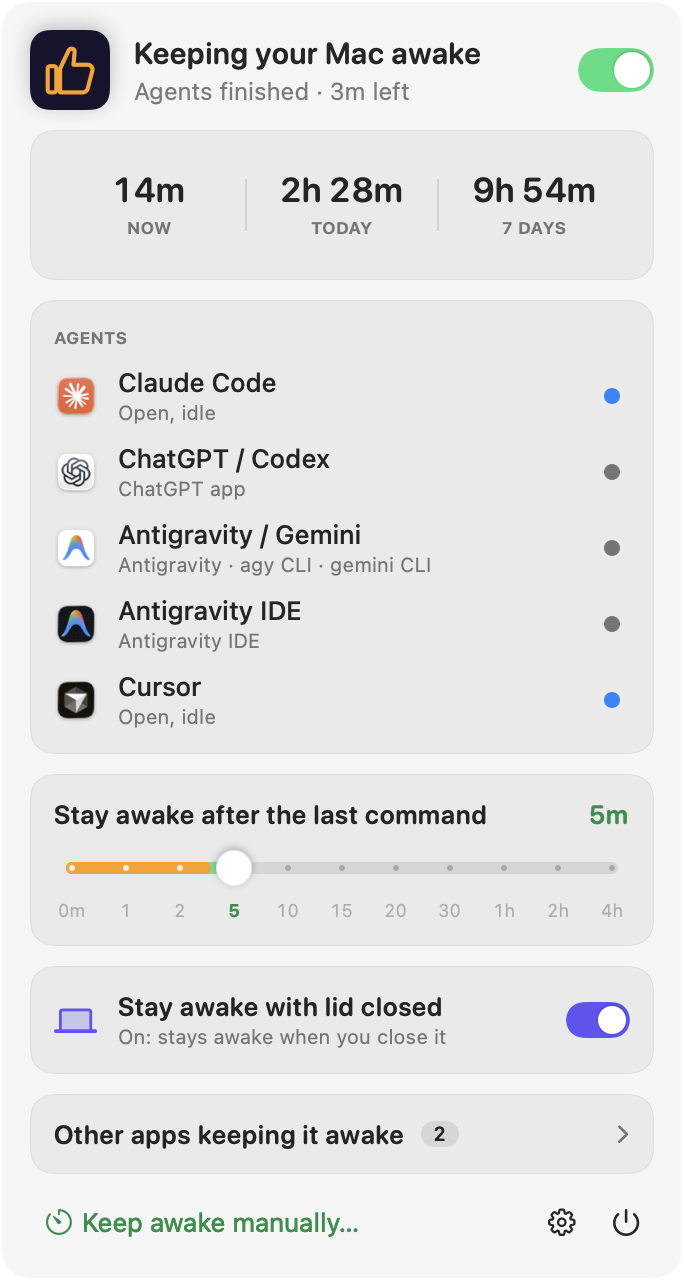
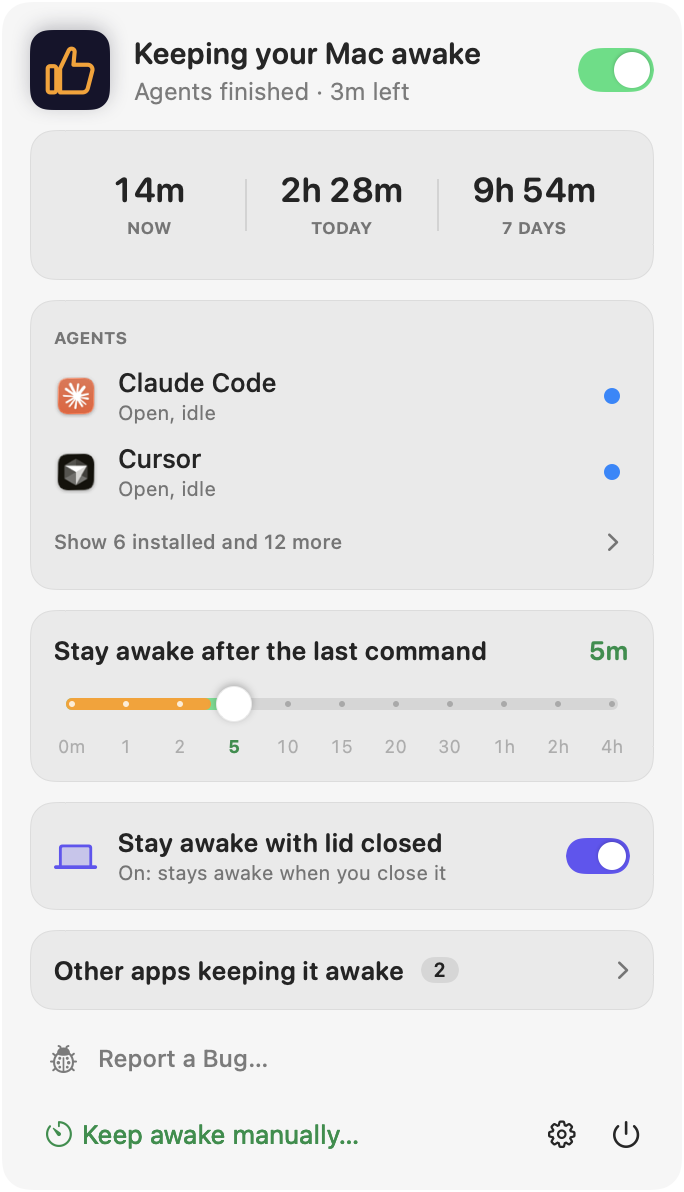
docs: show the current menu panel in the site tour
The tour's panel images were rendered before the agents and other-apps
side lists and Report a Bug. Re-rendered them with --render-site; they
are now 684x1192 (were 684x1280).

- Image sizes, the panel's aspect ratio (site.css, site.js) and the six
  spotlight boxes follow the new layout. The panel tops out at 596px
  tall, its real size, as it did at 640px before.
- Step 2 says the rest of the agents wait in a side list. Step 6
  mentions the other apps' side list and Report a Bug, which its
  spotlight now covers.

diff --git a/docs/index.html b/docs/index.html
@@ -91,10 +91,10 @@
           <svg class="cursor" viewBox="0 0 24 24" aria-hidden="true"><path d="M5 2.5v17.2l4.3-4.1 2.8 6.4 3-1.3-2.8-6.3 6-.3z" fill="#111" stroke="#fff" stroke-width="1.4" stroke-linejoin="round"/></svg>
 
           <div class="panel-wrap">
-            <img class="panel panel-idle" src="images/panel-idle.png" width="684" height="1280" alt="The thumbs-out panel, showing agents and how long it has kept the Mac awake.">
-            <img class="panel panel-working" src="images/panel-working.png" width="684" height="1280" alt="" loading="lazy">
-            <img class="panel panel-grace" src="images/panel-grace.png" width="684" height="1280" alt="" loading="lazy">
-            <img class="panel panel-lid" src="images/panel-lid.png" width="684" height="1280" alt="" loading="lazy">
+            <img class="panel panel-idle" src="images/panel-idle.png" width="684" height="1192" alt="The thumbs-out panel, showing agents and how long it has kept the Mac awake.">
+            <img class="panel panel-working" src="images/panel-working.png" width="684" height="1192" alt="" loading="lazy">
+            <img class="panel panel-grace" src="images/panel-grace.png" width="684" height="1192" alt="" loading="lazy">
+            <img class="panel panel-lid" src="images/panel-lid.png" width="684" height="1192" alt="" loading="lazy">
             <span class="spot spot-0"></span><span class="spot spot-1"></span><span class="spot spot-2"></span>
             <span class="spot spot-3"></span><span class="spot spot-4"></span><span class="spot spot-5"></span>
           </div>
@@ -109,8 +109,8 @@
             <li class="callout" data-step="1">
               <span class="callout-step">2 / 6</span>
               <h2>It notices your agents</h2>
-              <p>Claude Code runs <code>npm test</code>: its dot turns green and your Mac stays awake until the
-                work is done.</p>
+              <p>Claude Code runs <code>npm test</code>: its dot turns green and your Mac stays awake. The rest
+                wait in a side list.</p>
               <ul class="legend" aria-label="What the status dots mean">
                 <li><i class="dot dot-working"></i>Working</li>
                 <li><i class="dot dot-running"></i>Open, idle</li>
@@ -137,8 +137,8 @@
             <li class="callout" data-step="5">
               <span class="callout-step">6 / 6</span>
               <h2>It shows who else is awake</h2>
-              <p>See which other apps are holding your Mac awake, or keep it awake by hand for 15 minutes to
-                5 hours.</p>
+              <p>See which other apps are holding your Mac awake in a side list, or keep it awake by hand for
+                15 minutes to 5 hours. Something off? Report&nbsp;a&nbsp;Bug pre-fills a GitHub issue.</p>
             </li>
           </ol>
 

diff --git a/docs/site.css b/docs/site.css
@@ -119,7 +119,7 @@ body.story-playing .site-header { transform: translateY(-100%); opacity: 0; }
 .mb-icon { display: grid; place-items: center; width: 30px; height: 22px; border-radius: 6px; color: #fff; transition: background var(--duration-fast); }
 .mb-icon svg { width: 16px; height: 16px; }
 .mb-wifi { width: 16px; height: 16px; }
-.panel-wrap { position: relative; width: 100%; aspect-ratio: 684 / 1280; border-radius: 16px; overflow: hidden; box-shadow: 0 30px 80px rgba(0, 0, 0, 0.45), 0 0 0 0.5px rgba(255, 255, 255, 0.12); }
+.panel-wrap { position: relative; width: 100%; aspect-ratio: 684 / 1192; border-radius: 16px; overflow: hidden; box-shadow: 0 30px 80px rgba(0, 0, 0, 0.45), 0 0 0 0.5px rgba(255, 255, 255, 0.12); }
 .panel { position: absolute; inset: 0; width: 100%; height: 100%; opacity: 0; }
 .panel-working { opacity: 1; }
 .tour { list-style: none; margin: 0; padding: 0; display: grid; gap: 1rem; }
@@ -146,7 +146,7 @@ body.story-playing .site-header { transform: translateY(-100%); opacity: 0; }
 .intro.is-live .desktop.is-visible { visibility: visible; transition-delay: 0s; }
 .intro.is-live .menubar { position: absolute; inset: 0 0 auto; margin: 0; }
 .intro.is-live .panel-wrap {
-  position: absolute; top: 38px; left: 0; width: auto; height: min(calc(100svh - 120px), 640px);
+  position: absolute; top: 38px; left: 0; width: auto; height: min(calc(100svh - 120px), 596px);
   transform-origin: 50% 0; opacity: 0; transform: translateY(-14px) scale(0.97);
   transition: opacity var(--duration-step) var(--ease-out), transform var(--duration-step) var(--ease-out);
 }
@@ -165,12 +165,12 @@ body.story-playing .site-header { transform: translateY(-100%); opacity: 0; }
   box-shadow: 0 0 0 2.5px var(--awake), 0 0 24px 4px var(--awake-glow), 0 0 0 2000px rgba(21, 20, 43, 0.42);
   transition: opacity var(--duration-step) ease;
 }
-.spot-0 { top: 0.6%; height: 9.6%; }
-.spot-1 { top: 23.3%; height: 35.8%; }
-.spot-2 { top: 10%; height: 12.1%; }
-.spot-3 { top: 60.3%; height: 13.8%; }
-.spot-4 { top: 75.3%; height: 8.8%; }
-.spot-5 { top: 85.3%; height: 13.2%; }
+.spot-0 { top: 0.65%; height: 10.3%; }
+.spot-1 { top: 25%; height: 24.7%; }
+.spot-2 { top: 10.75%; height: 12.95%; }
+.spot-3 { top: 51%; height: 14.8%; }
+.spot-4 { top: 67.1%; height: 9.45%; }
+.spot-5 { top: 77.85%; height: 20.55%; }
 .desktop[data-step="0"] .spot-0, .desktop[data-step="1"] .spot-1, .desktop[data-step="2"] .spot-2,
 .desktop[data-step="3"] .spot-3, .desktop[data-step="4"] .spot-4, .desktop[data-step="5"] .spot-5 { opacity: 1; }
 

diff --git a/docs/site.js b/docs/site.js
@@ -93,7 +93,7 @@
 
     // Panel sits under the menu bar icon, kept on screen.
     const iconRect = icon.getBoundingClientRect();
-    const panelWidth = panelWrap.offsetHeight * (684 / 1280);
+    const panelWidth = panelWrap.offsetHeight * (684 / 1192);
     const panelLeft = narrow
       ? (vw - panelWidth) / 2
       : Math.min(vw - panelWidth - 16, Math.max(16, iconRect.left + iconRect.width / 2 - panelWidth / 2));
